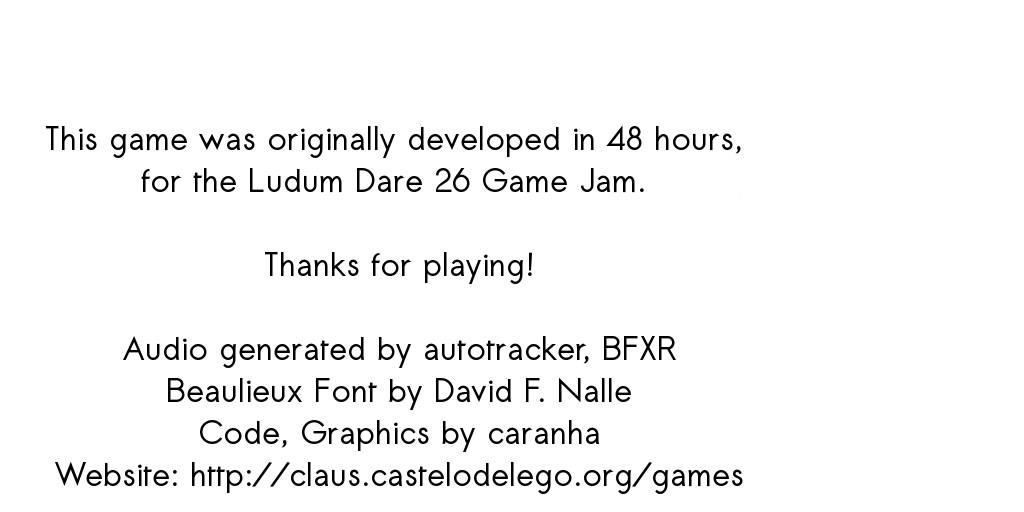
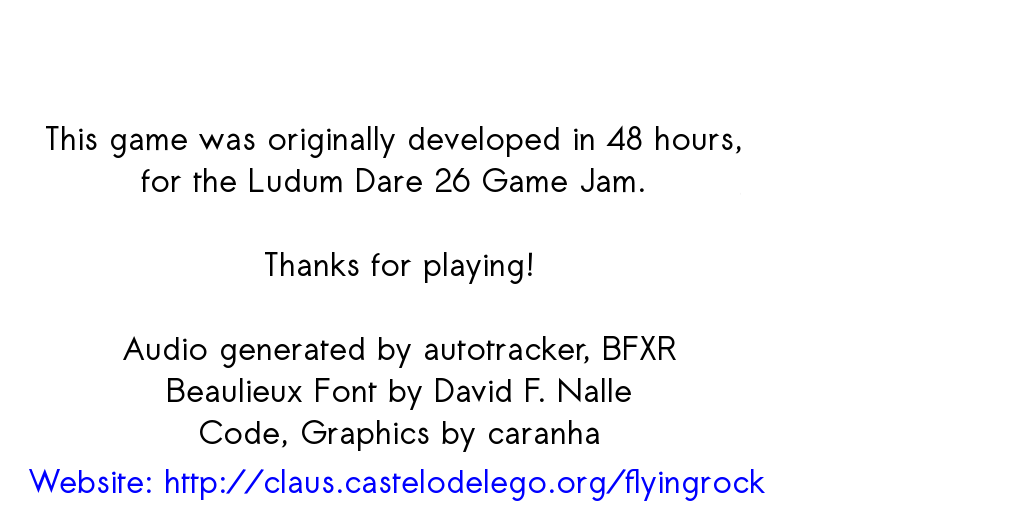
Finalized the game: * Changed Sawasdee Font to something thicker * Reduced the Log Level to None (ludum26main) * Added a Link to the Flying Rock homepage * Removed "multiple Clear Stages" bug (divideScreen)

Changed region(s): [[0.0312, 0.9062, 0.75, 0.9688]]

diff --git a/ludum26main/src/org/castelodelego/ludum26/AboutScreen.java b/ludum26main/src/org/castelodelego/ludum26/AboutScreen.java
@@ -2,7 +2,6 @@ package org.castelodelego.ludum26;
 
 import com.badlogic.gdx.Gdx;
 import com.badlogic.gdx.Screen;
-import com.badlogic.gdx.graphics.Color;
 import com.badlogic.gdx.graphics.GL20;
 import com.badlogic.gdx.graphics.OrthographicCamera;
 import com.badlogic.gdx.graphics.Texture;
@@ -12,7 +11,6 @@ import com.badlogic.gdx.graphics.glutils.ShapeRenderer.ShapeType;
 import com.badlogic.gdx.math.Rectangle;
 import com.badlogic.gdx.math.Vector2;
 import com.badlogic.gdx.math.Vector3;
-import com.sun.jndi.toolkit.url.Uri;
 
 public class AboutScreen implements Screen {
 
@@ -150,7 +148,7 @@ public class AboutScreen implements Screen {
 				desiredpos = selectedindex*800;
 				
 				if (linkBox.contains(touchpos.x, touchpos.y) && selectedindex == 2)
-					g.w.callWebpage("http://www.xkcd.org");
+					g.w.callWebpage("http://claus.castelodelego.org/flyingrock");
 			}
 		}
 		

diff --git a/ludum26main/src/org/castelodelego/ludum26/DivideScreen.java b/ludum26main/src/org/castelodelego/ludum26/DivideScreen.java
@@ -342,9 +342,11 @@ public class DivideScreen implements Screen {
 			timeaccum += delta;
 			while (timeaccum > flooddelta)
 			{
+				boolean done = false;
 				timeaccum -= flooddelta;
-				if (puzzle.floodfill(floodsteps))
+				if (puzzle.floodfill(floodsteps) && !done)
 				{
+					done = true;
 					curState = STATE_WAIT;
 					fillingsnd.stop();
 					puzzle.setScore();

diff --git a/ludum26desktop/src/org/castelodelego/ludum26/Main.java b/ludum26desktop/src/org/castelodelego/ludum26/Main.java
@@ -1,6 +1,5 @@
 package org.castelodelego.ludum26;
 
-import com.badlogic.gdx.Application;
 import com.badlogic.gdx.Gdx;
 import com.badlogic.gdx.backends.lwjgl.LwjglApplication;
 import com.badlogic.gdx.backends.lwjgl.LwjglApplicationConfiguration;

diff --git a/ludum26main/src/org/castelodelego/ludum26/ludum26entry.java b/ludum26main/src/org/castelodelego/ludum26/ludum26entry.java
@@ -44,7 +44,7 @@ public class ludum26entry extends Game {
 		lmanager = new LevelManager();
 		lmanager.loadLevelData();
 		
-		Gdx.app.setLogLevel(Application.LOG_DEBUG);
+		Gdx.app.setLogLevel(Application.LOG_NONE);
 		setScreen(splash); 
 	
 	}
